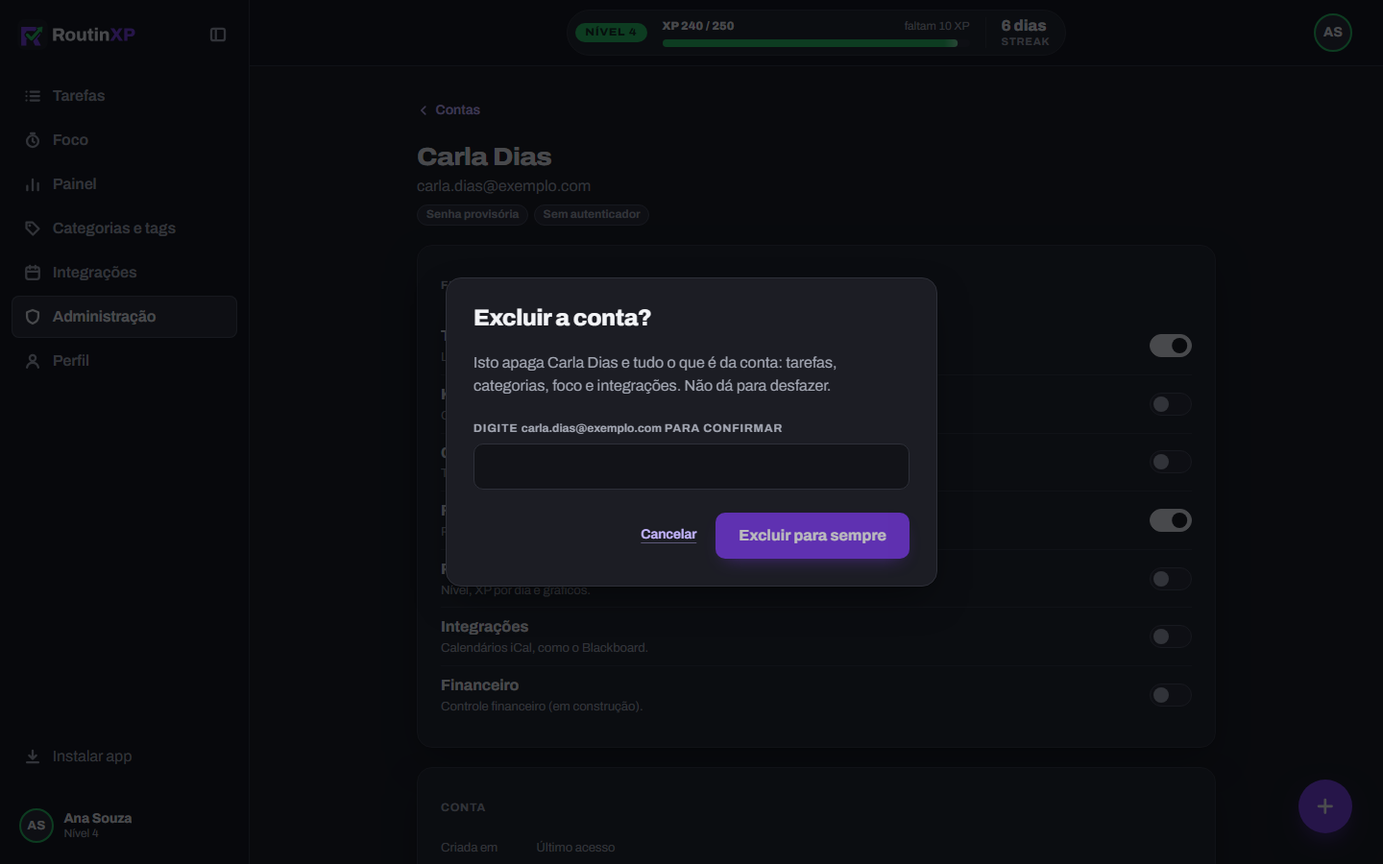
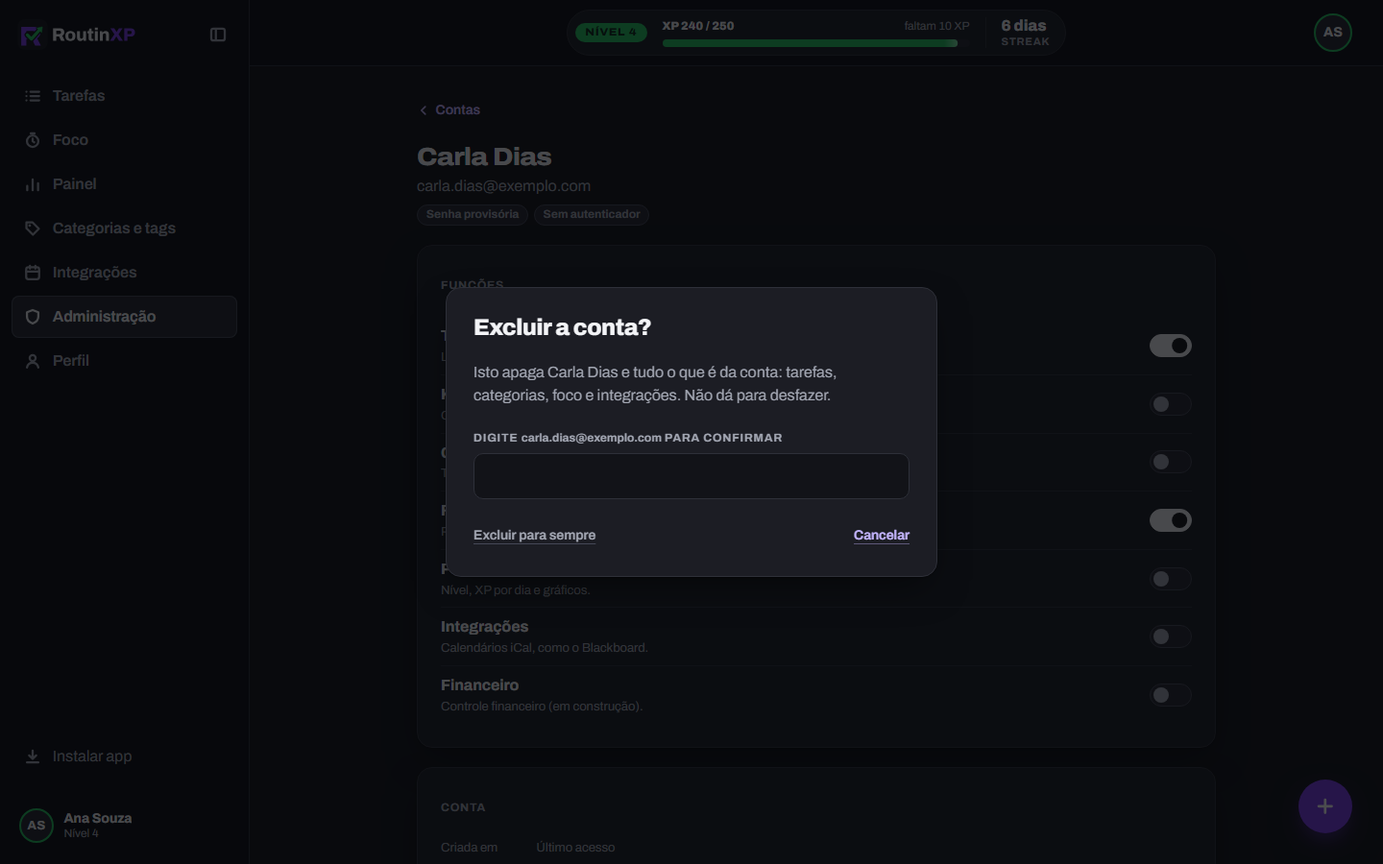
Docs: painel de administração e verificação em duas etapas no DESIGN.md, design.json e PROGRESS.md

Changed region(s): [[0.3438, 0.3422, 0.625, 0.5289], [0.3438, 0.5911, 0.6562, 0.6844]]

diff --git a/DESIGN.md b/DESIGN.md
@@ -12,6 +12,7 @@ colors:
   ink: "#f3f4f7"
   muted: "#a3a7b3"
   backdrop: "rgb(6 7 10 / 0.72)"
+  qr-fundo: "#ffffff"
   green: "#22c55e"
   green-tip: "#86efac"
   green-wash: "rgb(34 197 94 / 0.1)"
@@ -76,6 +77,18 @@ typography:
     fontSize: "1.5rem"
     fontWeight: 800
     lineHeight: 1.1
+    fontFeature: "'tnum'"
+  secret-figure:
+    fontFamily: "'Archivo Variable', 'Archivo', system-ui, sans-serif"
+    fontSize: "1.5rem"
+    fontWeight: 800
+    letterSpacing: "0.06em"
+    fontFeature: "'tnum'"
+  code-entry:
+    fontFamily: "'Archivo Variable', 'Archivo', system-ui, sans-serif"
+    fontSize: "1.375rem"
+    fontWeight: 800
+    letterSpacing: "0.3em"
     fontFeature: "'tnum'"
   body-lead:
     fontFamily: "'Archivo Variable', 'Archivo', system-ui, sans-serif"
@@ -475,6 +488,53 @@ components:
     backgroundColor: "{colors.green}"
     rounded: "{rounded.data}"
     width: "min(2.75rem, 72%)"
+  admin-page:
+    width: "56rem"
+  account-row:
+    backgroundColor: "transparent"
+    textColor: "{colors.ink}"
+    rounded: "{rounded.row}"
+    padding: "0.6rem 0.75rem"
+    height: "3.75rem"
+  account-row-hover:
+    backgroundColor: "{colors.panel-2}"
+  state-pill:
+    backgroundColor: "{colors.panel-2}"
+    textColor: "{colors.muted}"
+    rounded: "{rounded.pill}"
+    padding: "0 0.55rem"
+    height: "1.375rem"
+  state-pill-strong:
+    textColor: "{colors.ink}"
+  switch:
+    backgroundColor: "{colors.panel-2}"
+    rounded: "{rounded.pill}"
+    width: "2.75rem"
+    height: "1.5rem"
+  switch-on:
+    backgroundColor: "{colors.ink}"
+  admin-panel:
+    backgroundColor: "{colors.panel}"
+    textColor: "{colors.ink}"
+    rounded: "{rounded.md}"
+    padding: "24px"
+  temp-password:
+    backgroundColor: "{colors.ground}"
+    textColor: "{colors.ink}"
+    typography: "{typography.secret-figure}"
+    rounded: "{rounded.sm}"
+    padding: "1.25rem 1rem"
+  qr-tile:
+    backgroundColor: "{colors.qr-fundo}"
+    rounded: "{rounded.sm}"
+    padding: "0.5rem"
+    size: "9rem"
+  code-field:
+    backgroundColor: "{colors.ground}"
+    textColor: "{colors.ink}"
+    typography: "{typography.code-entry}"
+    rounded: "{rounded.sm}"
+    height: "48px"
 ---
 
 # Design System: RoutinXP
@@ -523,18 +583,19 @@ Deadline status tints (user request, 2026-09-11). They are not accents: they nev
 
 ### Neutral
 - **Top Bar** (`topbar`): the app chrome tier, one step darker than Ground: the sticky top bar and the full-height side menu (and its mobile drawer), so both read as frame rather than as panels. It is also the `theme-color` (index.html and the web manifest), because the top bar is what meets the phone's status bar.
-- **Ground** (`ground`): page background, input wells, the segmented-filter well.
+- **Ground** (`ground`): page background, input wells, the segmented-filter well, the temporary-password well, the knob of a switch that is on.
 - **Panel** (`panel`): raised containers (form panel, demo panel, Kanban columns, task cards in Lista, Calendário Dia and Linha do tempo, the filter panel, Painel cards, Perfil panels, dialog, account menu, the level pill, the shell strips (offline strip, streak and deadline reminders, install invite)).
-- **Panel Two** (`panel-2`): third tier. XP track and skeleton, task card hover (and the card body inside Kanban columns), side-menu item hover and current page, user-card hover, a selected filter chip, the active segment, notice and toast backgrounds, the row's Excluir overlay, avatar fill, the chart column hover, the chart tooltip, the category-bar track.
-- **Rule** (`rule`): 1px panel borders, row dividers, tab baseline, input border at rest, unselected chip border, the streak divider, the side menu's right edge, the shell strips' border, the chart baseline, the 2px timeline connector.
-- **Rule Strong** (`rule-strong`): input hover border, notice and toast border, the current side-menu item's inset outline, a selected filter chip's border, the dashed "+ Nova coluna" Kanban slot, the dashed daily-cap line on the XP chart, the chart tooltip border, the share-glyph chip in the iOS install steps, strike-through on completed titles, the destructive text action's underline, the toast time bar, scrollbar thumb.
+- **Panel Two** (`panel-2`): third tier. XP track and skeleton, task card hover (and the card body inside Kanban columns), side-menu item hover and current page, user-card hover, a selected filter chip, the active segment, notice and toast backgrounds, the row's Excluir overlay, avatar fill, the chart column hover, the chart tooltip, the category-bar track, a state pill's fill, a switch track that is off, an account row on hover.
+- **Rule** (`rule`): 1px panel borders, row dividers, tab baseline, input border at rest, unselected chip border, the streak divider, the side menu's right edge, the shell strips' border, the chart baseline, the 2px timeline connector, the hairlines between account rows, Registro items and switch rows.
+- **Rule Strong** (`rule-strong`): input hover border, notice and toast border, the current side-menu item's inset outline, a selected filter chip's border, the dashed "+ Nova coluna" Kanban slot, the dashed daily-cap line on the XP chart, the chart tooltip border, the share-glyph chip in the iOS install steps, strike-through on completed titles, the destructive text action's underline, the toast time bar, scrollbar thumb, the state pill outline, the border of a switch that is off, the temporary-password well's border.
 - **Check Ring** (`check-ring`): the 2px ring of an unchecked completion circle. It exists because Rule Strong fell below 3:1 on Panel. Check Ring holds at least 3:1 (WCAG 1.4.11 non-text contrast) on every surface a card can have: 4.2:1 on Panel, 3.7:1 on Panel Two (hovered row, Kanban card) and 3.3:1 on Rule (hovered Kanban card).
 - **Backdrop** (`backdrop`): the scrim behind a modal dialog and behind the open mobile drawer.
-- **Ink** (`ink`): primary text; today and overdue due dates; the fill of the neutral ERRO tag; the selected swatch ring; the chart's one direct value label; the "Mais concluída" line.
-- **Muted** (`muted`): secondary text, labels, inactive tabs and segments, side-menu items at rest, icon buttons at rest, the shell strips' leading icons (clock, no connection, download), the iOS install step numbers, hints, "faltam n XP", category names, counts, future due dates, chart axis and cap labels, timeline times, the Excluir label, and a completed row's or timeline item's "+0 XP" and "…" (XP pending).
+- **QR Ground** (`qr-fundo`): the white tile behind the authenticator QR code, and nothing else. It stays light in any theme, because the phone's camera needs dark modules on a light field; a theme may not darken it.
+- **Ink** (`ink`): primary text; today and overdue due dates; the fill of the neutral ERRO tag; the selected swatch ring; the chart's one direct value label; the "Mais concluída" line; the track and border of a switch that is on; the "Suspensa" state pill's text.
+- **Muted** (`muted`): secondary text, labels, inactive tabs and segments, side-menu items at rest, icon buttons at rest, the shell strips' leading icons (clock, no connection, download), the iOS install step numbers, hints, "faltam n XP", category names, counts, future due dates, chart axis and cap labels, timeline times, the Excluir label, and a completed row's or timeline item's "+0 XP" and "…" (XP pending); state pill text, the knob of a switch that is off, "você" and "último acesso" in the account list.
 
 ### Named Rules
-**The Two Jobs Rule.** Green means progress and purple means action; neither ever stands in for the other. No green buttons, no purple XP, no third accent. Purple never marks selection: a current side-menu page, a selected chip, segment or swatch is shown with neutrals (Panel Two, Rule Strong, Ink). The single violet indicator is the active underline-tab bar, which marks the current mode. Green is also never spent on something that earned nothing: a "+0 XP" is Muted, and no flight launches for it. The deadline tints (Tertiary) are status, not a third accent: they stay inside the Deadline Badge and the deadline reminder's clock.
+**The Two Jobs Rule.** Green means progress and purple means action; neither ever stands in for the other. No green buttons, no purple XP, no third accent. Purple never marks selection: a current side-menu page, a selected chip, segment or swatch is shown with neutrals (Panel Two, Rule Strong, Ink). The single violet indicator is the active underline-tab bar, which marks the current mode. Green is also never spent on something that earned nothing: a "+0 XP" is Muted, and no flight launches for it. The deadline tints (Tertiary) are status, not a third accent: they stay inside the Deadline Badge and the deadline reminder's clock. Administration takes no accent for state: an account's state pills and its feature switches are neutrals (nothing there is progress, nothing is an alarm), and violet stays on the actions.
 
 **The Neutral Error Rule.** Errors are not red. An error is a notice on `panel-2` with a small pill tag in inverted neutrals (ink fill, ground text) reading "ERRO", followed by a plain-language sentence. This keeps the palette to two accents and keeps failure unalarming. Due dates are the one status that takes a tint, and it is not red: the Deadline Badge goes amber when close or today and a soft rose once overdue, always with the clock and the date in words. It holds for reduced rewards: when a completion earns less than usual (task created under 5 minutes ago, the daily XP cap reached or partly reached), an info toast names the reason in a plain sentence, in neutrals, with no tag and no red. And it holds for a streak at risk: the reminder is a Panel strip with a Muted clock, never an alarm. Losing the connection is the same: the offline strip is a Panel strip with a Muted no-connection icon and a plain sentence, no tag, no red.
 
@@ -564,6 +625,8 @@ Deadline status tints (user request, 2026-09-11). They are not accents: they nev
 - **Label** (700, 0.75rem, 0.07em, uppercase, muted): field labels, field toggles, the filter's group titles, Lista group headings and Kanban column titles (both carry " · n"), Painel card titles and the timeline's day headings (HOJE, ONTEM). The streak caption runs 0.6875rem.
 - **Badge** (800, 0.6875rem, width 112.5%, 0.06em, uppercase): NÍVEL pill; 0.8125rem inside the login level meter.
 - **XP Figure** (800, tabular): "XP 120 / 150", "+n XP", the top bar's streak figure ("6 dias") and the Painel's "n XP no total".
+- **Secret Figure** (800, 1.5rem, 0.06em, tabular, normal width): the temporary password shown once, centered, in groups of four that never wrap inside a group.
+- **Code Entry** (800, 1.375rem, 0.3em, tabular, centered): the typed 6-digit verification code. The authenticator key it pairs with runs 0.875rem at 700 with 0.06em, in groups of four that never break inside a group.
 - **Focus Clock** (800, clamp(3.75rem, 11cqi, 6rem), sized by its container, width 110%, line-height 1, -0.03em, tabular): the time left on the Foco page's clock and nowhere else. It is the largest type in the app. Ink while running, Muted while paused.
 
 ### Named Rules
@@ -574,6 +637,8 @@ Deadline status tints (user request, 2026-09-11). They are not accents: they nev
 ## Layout
 
 **Login.** A 70rem frame, centered, with page padding clamp(1.5rem, 5vw, 3.5rem) vertical by clamp(1rem, 4vw, 2.5rem) horizontal. Two columns: a flexible story column and a fixed 25rem form column, column gap clamp(2.5rem, 7vw, 6rem), row gap 2.25rem. Below 60rem it becomes one 30rem column in the order wordmark, headline, form, demo, and the form panel padding drops from 2rem to 1.5rem. Single-task pages (password reset) use a 26rem centered column with 1.5rem gaps. RoutinXP is invite-only (user decision, 2026-09-13): the form panel has no Entrar / Criar conta tabs. It opens with the Headline "Entrar" and one Muted sentence ("O RoutinXP é por convite…", 1.5rem below), then e-mail, password, the full-width Entrar button and "Esqueci minha senha". Accounts are created by the owner in Supabase. An invite link lands on the password page, which then reads "Crie sua senha" with a "Criar senha" button.
+
+**Account gate.** Between sign-in and the app, every account passes the gate screens, all in the single-task column (26rem, the logo above one Panel padded 2rem, 1.5rem at 44.99rem and below): register the authenticator (first access), type the 6-digit code (every access), then, for an account holding a temporary password, "Crie sua senha". The app shell opens only after them. A failure shows the Headline, the ERRO notice, the primary "Tentar de novo" and the "Sair" link button. While the gate checks, a single Label line shows, as elsewhere.
 
 **App shell.** Two columns at full height: the side menu (16.25rem, or 4.25rem when collapsed; the column width animates over 0.25s) and the content column. The content column stacks the sticky top bar (Top Bar fill, 1px Rule beneath, padding 0.625rem by clamp(1rem, 3vw, 2rem)), the shell strip when one applies (0.75rem below the bar, matching the page's side padding, max 86rem), then the current page. At most one strip shows at a time: offline, the offline strip alone; online, the streak reminder when the streak is at risk, otherwise the deadline reminder when tasks are due today or overdue, otherwise the install invite (mobile only) while the app is installable and not dismissed. On desktop the top bar holds only the level pill and, at the right, the avatar button; the logo lives in the side menu. During a focus session, on any page other than Foco, the focus chip takes the otherwise empty left side (see App Top Bar). The bar is a three-column grid with equal flexible sides (1fr | auto | 1fr), so the level pill is always centered in the bar, whatever sits at either side.
 
@@ -610,6 +675,8 @@ Música keeps the same slot in both phases, so the player never restarts. The gr
 
 **Simple pages (Perfil).** One column of panels, max 44rem wide and centered in the content column (it follows the side menu open or collapsed), 1.25rem apart, same page padding. Panels pad 1.75rem (1.25rem at 60rem and below). Field pairs sit in an auto-fit two-column grid (columns at least 9.5rem, 1rem gap) that stacks on its own when narrow.
 
+**Administração.** One column capped at 56rem and centered, with the Tarefas page padding (6rem at the bottom), 1.25rem between blocks. The list page: a title row (Page Title "Administração", the compact "+ Nova conta" at the right), the underline tabs CONTAS | REGISTRO, then the search field (max 24rem) and the account list. The account page: a back link, the header (Page Title name, the e-mail in Muted, the state pills, 0.5rem apart), then the FUNÇÕES and CONTA panels padded 1.5rem (1.25rem at 47.99rem and below). At 47.99rem and below an account row stacks name, pills and last access in one column with the chevron at the right, the search field takes the full width, and each account action takes a full-width row.
+
 **At 60rem and below (single column).** The side menu leaves the grid and becomes an off-canvas drawer; the top bar gains a menu button at the left and the logo centered (equal 1fr sides), keeps the avatar at the right, and wraps the level pill to a full-width second row. "+ Nova tarefa" leaves the Tarefas title row; the FAB (present at every width) remains the create action. On Tarefas the "Filtrar" button stays in the title row (the filter panel stacks its chip groups), and the segmented filter returns to flow under the tabs. The page title drops to 1.375rem; dialog field pairs stack; the toast lifts to clear the FAB; the Painel level panel wraps its XP bar to a full-width second line.
 
 **At 48rem and below.** Kanban columns sit side by side at 86% width and scroll-snap horizontally. In Lista, Dia and Linha do tempo the deadline badge and XP leave the right column and drop to the meta line under the title, as in Kanban, so titles get the card's full width.
@@ -637,9 +704,9 @@ Depth is tonal first: chrome (top bar and side menu, darker), ground, panel, pan
 
 ## Shapes
 
-Soft, friendly geometry without going bubbly. Containers (panels, dialog) round at 16px; controls (buttons, inputs, notices, toast, shell strips, account menu, user card, icon buttons, level-up banner) at 10px; interactive rows and task cards, side-menu items, menu items, chart columns on hover, the chart tooltip, the iOS step chip and small overlays at 8px. Data ends round at 4px: an XP bar rounds only its top corners and a category bar only its right end, so the baseline stays square. Anything that represents a count, a state token or a filter is a full pill: the NÍVEL badge, the XP track and fill, the level pill, the ERRO tag, the segmented well and its segments, the filter chips, and the 3px active-tab bar. Circles are reserved for identity, completion, color and the floating action: the avatar, the task check, the timeline check, the category dot, the color swatch, the FAB. Borders are always 1px, solid except the dashed "+ Nova coluna" Kanban slot and the dashed daily-cap line; rings on the avatar and task check are 2px, and so is the timeline connector. Checkboxes are squares at the 4px data radius with a 2px ring, so a selection box never reads as the round completion check. The Foco cycle pills are full pills, because they count.
+Soft, friendly geometry without going bubbly. Containers (panels, dialog) round at 16px; controls (buttons, inputs, notices, toast, shell strips, account menu, user card, icon buttons, level-up banner) at 10px; interactive rows and task cards, side-menu items, menu items, chart columns on hover, the chart tooltip, the iOS step chip and small overlays at 8px. Data ends round at 4px: an XP bar rounds only its top corners and a category bar only its right end, so the baseline stays square. Anything that represents a count, a state token or a filter is a full pill: the NÍVEL badge, the XP track and fill, the level pill, the ERRO tag, the segmented well and its segments, the filter chips, the account state pills, the switch track, and the 3px active-tab bar. Circles are reserved for identity, completion, color and the floating action: the avatar, the task check, the timeline check, the category dot, the color swatch, the FAB. Borders are always 1px, solid except the dashed "+ Nova coluna" Kanban slot and the dashed daily-cap line; rings on the avatar and task check are 2px, and so is the timeline connector. Checkboxes are squares at the 4px data radius with a 2px ring, so a selection box never reads as the round completion check. The Foco cycle pills are full pills, because they count.
 
-The icon family is drawn in-house on a 16px grid: 2px strokes (2.2px for the check), round caps and joins, no fills, color through `currentColor`. Twenty-four glyphs exist: plus, check, pencil, list, chart, person, side-menu panel, menu, clock, stopwatch, play, pause, skip, close, download, share, no connection, calendar, ellipsis, funnel, magnifier, tag, chevron left and chevron right. Single-point marks (the ellipsis dots and the tag's hole) use a 2.5px stroke so they read as dots. New icons follow the same stroke. Icons sit at 1rem in buttons and the iOS step chip, and 1.125rem in the side menu and the shell strips.
+The icon family is drawn in-house on a 16px grid: 2px strokes (2.2px for the check), round caps and joins, no fills, color through `currentColor`. Twenty-five glyphs exist: plus, check, pencil, list, chart, person, side-menu panel, menu, clock, stopwatch, play, pause, skip, close, download, share, no connection, calendar, ellipsis, funnel, magnifier, tag, shield, chevron left and chevron right. Single-point marks (the ellipsis dots and the tag's hole) use a 2.5px stroke so they read as dots. New icons follow the same stroke. Icons sit at 1rem in buttons and the iOS step chip, and 1.125rem in the side menu and the shell strips.
 
 ## Components
 
@@ -652,7 +719,7 @@ Solid, confident, one per form.
 - **Link button:** Soft Violet text, 600 weight, 0.875rem, underline in Link Line with 4px offset that goes solid on hover. Used for secondary routes, dismissals and the one action inside a strip ("Esqueci minha senha", "Cancelar", "Desfazer", "Ver tarefas", "Instalar", "Sair da conta").
 - **Destructive text action:** Muted text, 600 weight, 0.875rem, underline in Rule Strong; hover turns Ink. Pinned to the left of a dialog's action row ("Excluir"). Destruction is never a violet fill and never red.
 - **Icon button:** a 40px square, 10px radius, no fill, Muted icon; hover gives Panel Two and Ink. The top bar's menu button and the side menu's collapse and close buttons. Always carries an `aria-label`.
-- **Outline:** the secondary beside a primary ("Pular" beside Pausar on the Foco clock). 48px tall, 10px radius, 1.25rem side padding, a 1px Rule Strong border, no fill, Ink label at 700, and a 1rem icon 0.45rem from the label. On hover the border rises to Muted and the fill becomes Panel Two. It is drawn like the Filtrar button, at full button height. Never violet.
+- **Outline:** the secondary beside a primary ("Pular" beside Pausar on the Foco clock). 48px tall, 10px radius, 1.25rem side padding, a 1px Rule Strong border, no fill, Ink label at 700, and a 1rem icon 0.45rem from the label. On hover the border rises to Muted and the fill becomes Panel Two. It is drawn like the Filtrar button, at full button height. Never violet. The account page's actions (Gerar senha provisória, Remover autenticador, Suspender or Reativar conta) are outline buttons in a wrapping row 0.75rem apart, each full width at 47.99rem and below.
 - **Start focus:** the primary button at full column width and 3.75rem tall, with a 1.0625rem label at 0.02em and a 1.125rem play icon. Used only for "Iniciar foco" while a Foco session is being set up; it is the page's one violet action in that phase.
 - **FAB:** at every width, a 56px Action Violet circle with a plus icon, fixed at the bottom-right (2rem on desktop, 1.25rem at 60rem and below; safe-area aware), carrying the FAB glow; hover brightens it, press scales it to 0.94. One tap opens the new-task dialog. At 60rem and below it replaces the Tarefas title row's "+ Nova tarefa". It appears on every page: the shell renders it everywhere except Tarefas, which renders its own that opens the dialog in place.
 
@@ -663,6 +730,7 @@ Solid, confident, one per form.
 - **Focus:** border turns Soft Violet with the 3px violet halo; no outline. Hover raises the border to Rule Strong. Autofill is forced back to Ground and Ink.
 - **Error:** reported through the notice below the fields, not by recoloring inputs.
 - **Number with unit:** the same well with its unit ("min", "focos") set inside at the right (0.95rem in, 0.875rem Muted, 3.75rem reserved). Browser spinners are removed (`appearance: textfield`) because the number is typed, and out-of-range values are clamped to their limits on blur. Used for the Foco intervals.
+- **Code field:** the same well with the Code Entry type and a numeric keyboard (`inputMode="numeric"`, `autocomplete="one-time-code"`), six digits at most; anything else typed is dropped.
 - **Checkbox:** a neutral 1.125rem square, 4px radius, 2px Check Ring border, no fill. Checked, it takes an Ink fill and border with a 2px Ground tick. Border and fill change over 0.15s. Selection is neutral, so a checkbox is never violet, and never green (green is the completion circle). Used in the task picker and the Foco music option.
 
 ### Notice (error)
@@ -680,7 +748,7 @@ The same strip form, on mobile only (hidden at 60rem and up, where the side menu
 ### Navigation: Side Menu
 The app's primary navigation, full height at the left, in the Top Bar tier with a 1px Rule right edge; sticky, no shadow.
 - **Top:** the horizontal logo (2rem tall) and, at the right, the collapse icon button.
-- **Items**, in this order: Tarefas (list icon), Foco (stopwatch), Painel (chart), Categorias e tags (tag), Integrações (calendar), Perfil (person). 44px rows, 8px radius, a 1.125rem icon 0.75rem from the label, 600 weight, Muted at rest. Hover gives Panel Two and Ink. The **current page** is neutral: Panel Two fill, the Selected inset in Rule Strong, Ink text. Never violet, never a side stripe.
+- **Items**, in this order: Tarefas (list icon), Foco (stopwatch), Painel (chart), Categorias e tags (tag), Integrações (calendar), Administração (shield), Perfil (person). An account sees only the items for the features it has; Administração appears only for the admin role. 44px rows, 8px radius, a 1.125rem icon 0.75rem from the label, 600 weight, Muted at rest. Hover gives Panel Two and Ink. The **current page** is neutral: Panel Two fill, the Selected inset in Rule Strong, Ink text. Never violet, never a side stripe.
 - **Install item:** "Instalar app" with the download icon, the same recipe as the nav items (44px, 8px radius, 600, Muted at rest, Panel Two and Ink on hover, a native tooltip when collapsed). It sits at the bottom directly above the user card and appears only when the app can be installed.
 - **User card:** pinned to the bottom; a 36px avatar, the user's name (0.875rem, 700, ellipsized; "Complete seu perfil" when empty) over "Nível n" (0.75rem, Muted). 10px radius, 8px padding. It links to Perfil and has a hover state only (Panel Two); it never shows the current-page state, because the Perfil item already carries it.
 - **Collapsed (desktop):** a 4.25rem icon rail. The logo swaps for the 32px icon, the collapse button stacks under it, labels and the user card's text hide, items center their icons and show their name as a native tooltip. The choice persists in `localStorage`.
@@ -824,11 +892,32 @@ A simple page (the Perfil column: max 44rem, centered). A title row: Page Title 
   - Editing replaces the link field with a dashed Rule Strong box, "Link salvo (domain)" plus "Trocar link". The link is never shown back.
   - "Remover calendário" is the pinned-left destructive action. It opens a second step titled "Remover {course}", with two radios (keep, or delete the pending imported tasks) and the destructive text action to confirm, never a violet fill.
 
+### Administração
+Accounts, not content: the panel never shows anyone's tasks, focus or finance. It reuses the app's parts (Page Title, compact button, underline tabs, the filter's search field, Panels, outline buttons, the destructive text action, Dialog) and adds three: the account row, the state pill and the switch.
+- **Account list:** no cards. A list closed by a 1px Rule above and a 1px Rule under each row. A row is a link, min 3.75rem, 0.6rem by 0.75rem padding, 8px radius, Panel Two on hover, laid out as a four-column grid: who (the name at 700 over the e-mail in Meta Muted; the e-mail alone at 700 when there is no name; the owner's own row adds "você" in 0.75rem Muted at 600), the state pills, "último acesso 12 set" (or "nunca acessou") in Meta Muted in a fixed 8.5rem column so the dates align across rows, and a Muted chevron. Names and e-mails ellipsize. The search matches name and e-mail without regard to accents. An empty result is one Muted sentence in a 1px dashed Rule Strong box (10px radius).
+- **State pill:** a 1.375rem full pill, 0 0.55rem padding, Panel Two fill, 1px Rule Strong border, 0.75rem at 700, Muted, never wrapping: "Administrador", "Suspensa", "Senha provisória", "Sem autenticador". "Suspensa" alone is Ink, because it changes whether the account can be used. The pill container always renders, even empty, so rows keep their columns.
+- **Registro tab:** the same hairline list; each item holds the sentence of what was done (0.875rem) and its date and time in Meta Muted at the right, wrapping under it when narrow, 0.8rem by 0.75rem padding.
+- **Account page:** the back link "‹ Contas" (a link button with a 0.875rem chevron left), the header, then two Panels titled in Label style:
+  - **FUNÇÕES:** one row per feature, min 3.5rem, divided by 1px Rules: the name at 700 over one Meta line of what it opens, and the switch at the right. Kanban and Calendário depend on Tarefas: with Tarefas off their text falls to 55% and their switches are disabled. A change saves at once (switches stay disabled until the server answers), rolls back if refused, and reports in one Meta `role="status"` line, in Ink on failure; the line leaves the layout while empty.
+  - **CONTA:** "Criada em" and "Último acesso" as Meta terms over values at 600, 2.5rem apart, then the outline actions, then "Excluir conta" as the destructive text action at the foot, left-aligned. On the owner's own account the actions are replaced by one Meta sentence.
+- **Switch:** a real `role="switch"` button, a 2.75rem by 1.5rem full pill. Off: Panel Two track, 1px Rule Strong border, a 1rem Muted knob at the left. On: Ink track and border, the knob in Ground slid 1.2rem right. Track, border and knob change over 0.2s on the shared ease-out. An invisible ::before extends the target to 44px without enlarging the drawing. Disabled: 45% and a not-allowed cursor. The feature's name is its label and the Meta line its description. Selection stays neutral: never violet, never green.
+- **Nova conta dialog:** the standard Dialog with E-mail, Nome (with a Meta hint) and a FUNÇÕES fieldset of neutral checkboxes in an auto-fit grid (columns at least 9rem), each row 2.75rem at 600. Unchecking Tarefas unchecks Kanban and Calendário and disables them (55%).
+- **Confirmation dialog:** the standard Dialog with a Headline question, one sentence naming the account and the consequence, "Cancelar" and the action. Deleting asks for the account's e-mail, typed in a field whose label quotes it (the e-mail keeps its own case inside the uppercase label); the action stays disabled until it matches. As everywhere else, destruction is never a violet fill: "Excluir para sempre" is the underlined text action on the left, with "Cancelar" on the right; the reversible actions (suspend, reactivate, new password, remove authenticator) keep the primary button.
+- **Temporary password (signature):** a fixed Dialog (see Dialog) that shows the password once: a Ground well with a 1px Rule Strong border, 10px radius, 1.25rem by 1rem padding, holding the password centered in Secret Figure, split into groups of four 0.4em apart (selected whole on click), and a "Copiar senha" link button that copies it without spaces and turns to its done form. Below, a Meta warning that it will not be shown again, and one primary button, "Pronto", that closes it. Nothing keeps the password after closing.
+
+### Two-Step Verification
+The gate's authenticator screens (see Account gate in Layout).
+- **Register the authenticator:** Headline, one Muted sentence, then an ordered list of three steps (0.9rem apart, line-height 1.5, numbers at 800 in Muted). The second step holds the QR code and the key side by side, wrapping: the QR on a 9rem QR Ground tile (0.5rem padding, 10px radius), and beside it the Label "CHAVE", the key in groups of four, and a "Copiar chave" link button. Then the code field, the full-width primary "Ativar verificação" and the "Sair" link button, centered.
+- **Type the code:** Headline, one Muted sentence, the code field, the primary "Confirmar" and "Sair", then a centered Meta line on what to do if the phone is lost.
+- Errors are the ERRO notice above the button, and a wrong code clears the field. While the QR loads, a Meta line says so.
+
 ### Perfil
 A simple page (Page Title, then two panels). The first holds the profile form: first name and surname, birth date and occupation, each pair in the auto-fit two-column grid, then the primary "Salvar perfil" with "Perfil salvo." (0.875rem, 600, Muted, `role="status"`; never green, which stays for XP, level and completion) beside it once saved. When the profile is incomplete the title becomes "Complete seu perfil" and one Muted sentence (44ch) leads the panel. The second panel, titled CONTA in Label style, lists the e-mail (Meta muted term, Ink value) and a "Sair da conta" link button.
 
 ### Dialog
 A native modal `<dialog>` (focus trapped, Esc and backdrop click close), Panel fill, 1px Rule, 16px radius, Panel lift, width min(100% - 2rem, 32rem), 28px padding, over the Backdrop scrim. Enters with a 10px rise and 0.98 scale (0.35s ease-out). A Headline title, then a standard form (fields 20px apart; a pair of fields, such as category and date, sits in two columns and stacks at 60rem and below), then the action row: destructive text action pinned left (only when editing), then "Cancelar" as a link button, then the primary button at the right. Errors appear as a notice above the actions.
+
+**Fixed dialog.** For what must not be lost to a stray key or click (the temporary password), the dialog is fixed: Esc and a click on the backdrop do nothing, and only its own button closes it. Every other dialog keeps Esc and backdrop close.
 
 **Task dialog.** Fields in order: Título; Descrição (optional textarea, "Opcional." hint); Categoria and Data prevista as a pair; then **Tags**, a fieldset with a Label legend and a wrapping row of tag chips (0.5rem apart). A chip is a 2.25rem pill (1px Rule border, 0 0.8rem padding, 0.875rem at 600, Muted) holding the tag ring and the name; hover raises the border to Rule Strong and the text to Ink; a chip that is on (`aria-pressed`) gets the neutral selection, Panel Two fill with a Rule Strong border and Ink text, never violet. A last dashed chip "+ Nova tag" opens an inline row, not a box: the name field (flexible), a "Criar tag" link button and a 36px close icon button, with the color picker beneath. "Salvar" stays the dialog's only violet action. Enter creates the tag and switches it on; Esc or the close button closes only the inline row. The Tags legend keeps 0.75rem below it (legends are not grid items). With no tags yet, one Muted hint sentence sits above the chips.
 
@@ -893,6 +982,8 @@ A Panel Two circle with a 2px green ring and initials at 700: 48px in a profile 
 - **Do** keep primary buttons and inputs at least 48px tall, completion targets and navigation items at least 44px, and icon buttons 40px.
 - **Do** draw new icons on the 16px grid with a 2px round-capped stroke in `currentColor`.
 - **Do** mark the focus phase, the time and the cycles in neutrals (Ink, Muted, Rule Strong), and leave green on the Foco page to task completion.
+- **Do** show account state as neutral pills and feature access as neutral switches (on is an Ink track); separate account rows with 1px Rules, not cards.
+- **Do** show a secret once, in tabular groups of four with a copy action, inside a fixed dialog.
 
 ### Don't:
 - **Don't** add a third accent, or use red for errors, deletion or a streak at risk. The amber and rose deadline tints stay inside the Deadline Badge and the deadline reminder.
@@ -909,3 +1000,5 @@ A Panel Two circle with a 2px green ring and initials at 700: 48px in a profile 
 - **Don't** hardcode hex or rgb literals in component CSS; add a token instead.
 - **Don't** show placeholder numbers while stats load; use the neutral skeleton.
 - **Don't** frame, recolor or borrow colors from the Spotify embed; it brings its own surface, and the system's palette stays ours.
+- **Don't** color account state green or red, or turn a switch violet; administration carries no progress and no alarm.
+- **Don't** darken the QR Ground tile in any theme; the code must stay readable by a camera.
